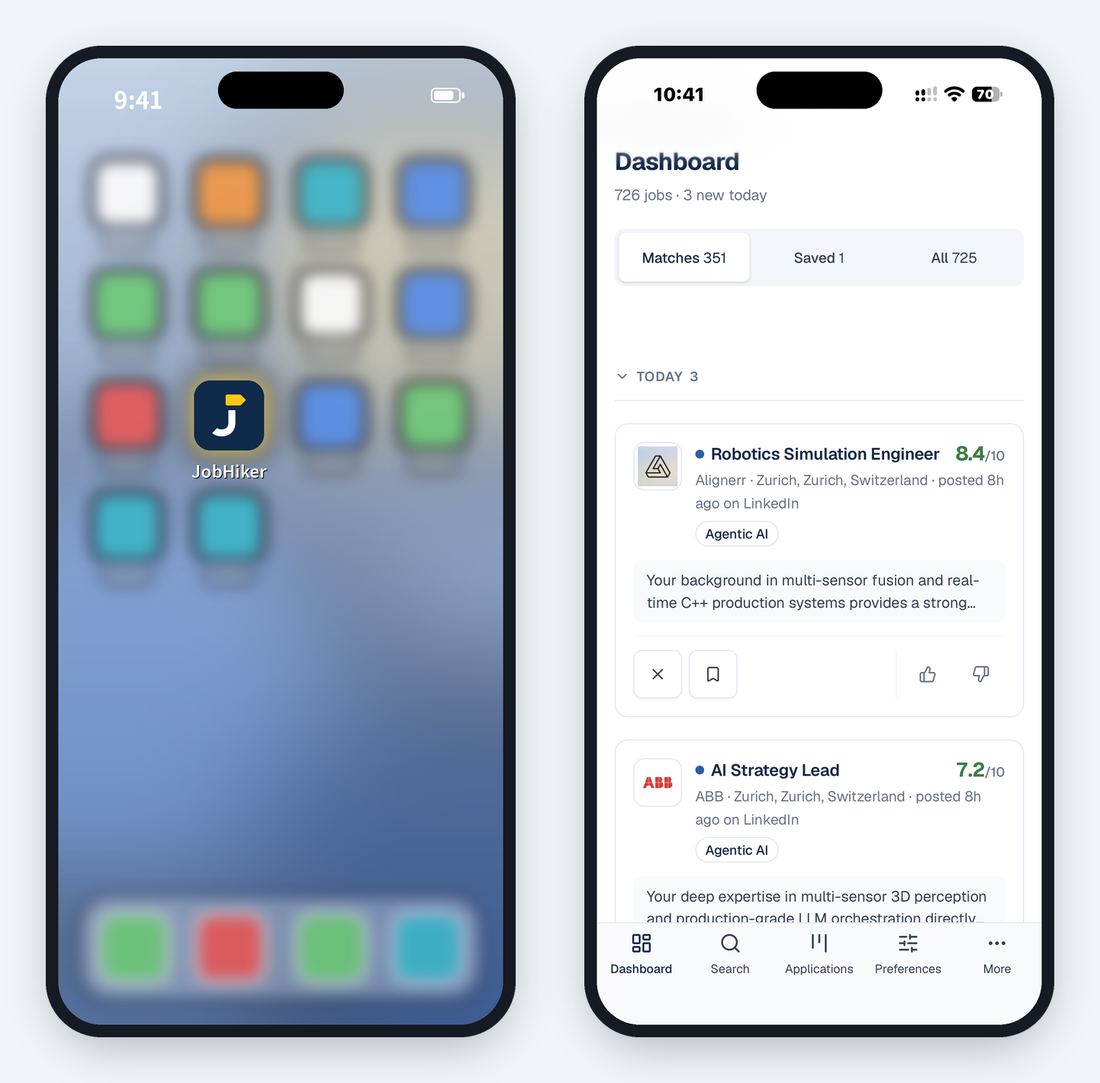
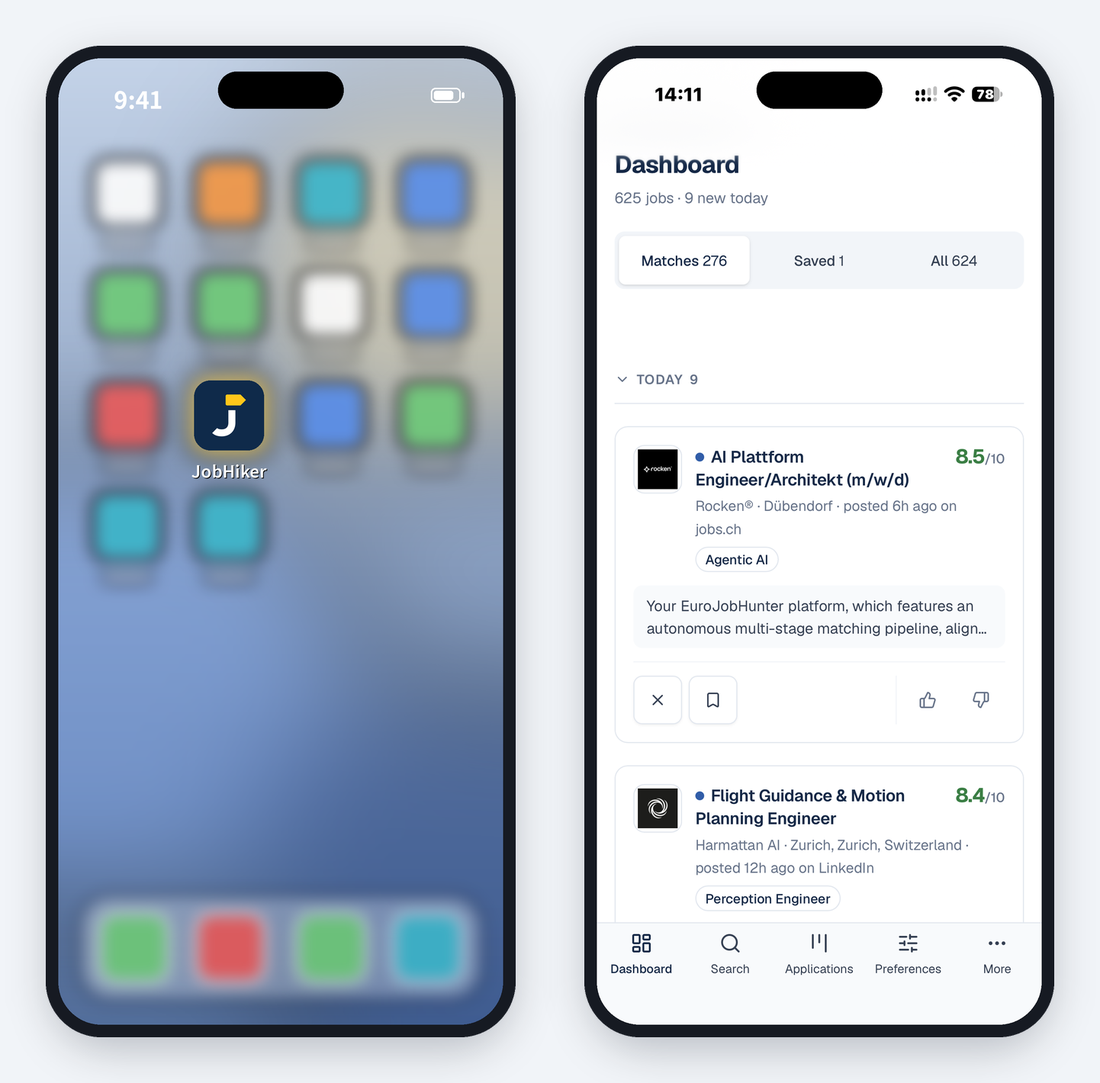
docs(readme): new dashboard shots, the form-filling in the tagline, map credit
Claude-Session: https://claude.ai/code/session_011H7nX65HNrQuNN5Vr6SkrG

diff --git a/README.md b/README.md
@@ -33,7 +33,7 @@ Swiss Job Hunter automates the boring parts:
 
 <div align="center">
 
-**[jobhiker.com](https://jobhiker.com)** · every new Swiss job, read against your CV, the good ones sent to you twice a day
+**[jobhiker.com](https://jobhiker.com)** · every new Swiss job, read against your CV · the best ones sent to you twice a day · the application form filled in for you, ready to send
 
 <a href="https://jobhiker.com"><img src="docs/jobhiker/matches.png" alt="JobHiker matches: each new posting scored against your CV, with the reason in one sentence" width="100%"></a>
 
@@ -59,12 +59,12 @@ what it grew into — the same idea, rebuilt as a product you can use without Do
 </tr>
 <tr>
 <td width="50%"><img src="docs/jobhiker/search.png" alt="Search every job in the pool"><br><sub><b>Search</b> — the whole pool, filterable by field, canton, language, board, contract and workload</sub></td>
-<td width="50%"><img src="docs/jobhiker/pulse-map.png" alt="JobHiker Pulse map of new jobs by canton"><br><sub><b>Pulse</b> — new jobs by canton, every day</sub></td>
+<td width="50%"><img src="docs/jobhiker/pulse-map.png" alt="JobHiker Pulse map of new jobs by canton"><br><sub><b>Pulse</b> — new jobs by canton, every day. Data: <a href="https://jobhiker.com/pulse">JobHiker Pulse</a>; canton boundaries © <a href="https://www.swisstopo.admin.ch/en/landscape-model-swissboundaries3d">swisstopo swissBOUNDARIES3D</a></sub></td>
 </tr>
 </table>
 
 **Free to start:** the first month has every feature, no card needed. Search, your board and the
-application tracker stay free after that. Your data stays on servers in the EU, and your CV is stored encrypted.
+application tracker stay free after that.
 
 <div align="center">
 
